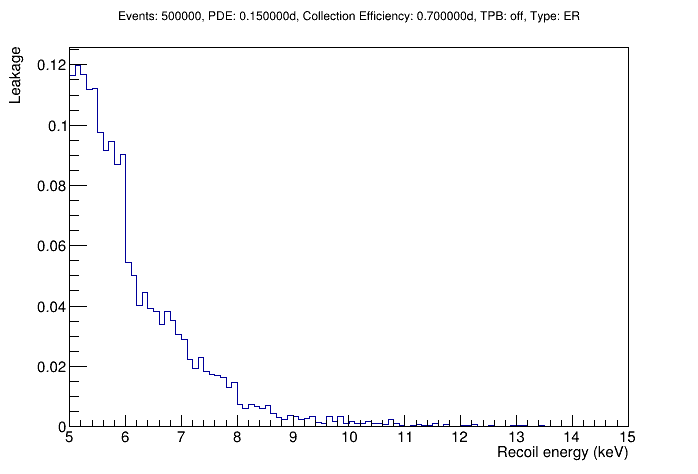
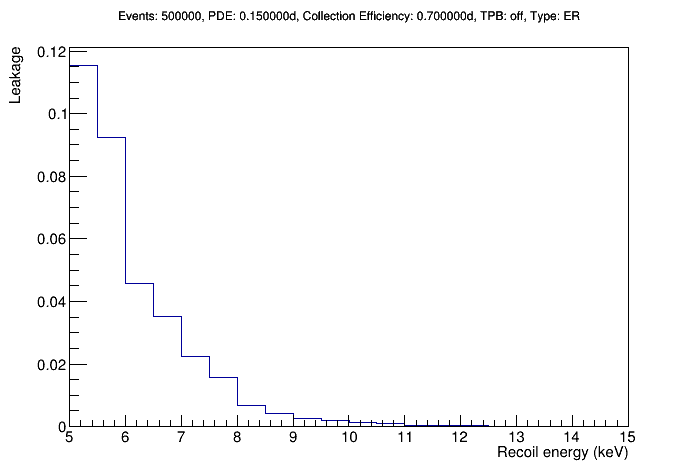
added line for 50% NR to graph 3; calculated fraction of evts with PSD==0|1

diff --git a/ReadOutput.c b/ReadOutput.c
@@ -6,9 +6,12 @@
 //Default graph type is scatter plot. Set heat_map==1 to make a heat map.
 //If inputting only NR, you must pass "" to ER.
 
-//Creates a graph of true PSD vs recorded PSD, detected photons vs energy, recorded PSD vs energy, a histogram of residual, and leakage vs energy.
+//Creates a graph of true PSD vs recorded PSD, detected photons vs energy, recorded PSD vs energy, a histogram of residual, and leakage vs energy. Calculates the
+//	fraction of events that have a PSD of zero or 1.
 
 #include "MakeList.c"
+#include "SingletToTripletYALE.c"
+#include "GetFloatAsString.c"
 
 void ReadOutput(TString ER="", TString NR="", long total_evts=0, int heat_map=0){
 
@@ -24,6 +27,7 @@ void ReadOutput(TString ER="", TString NR="", long total_evts=0, int heat_map=0)
     cout << "If the data file is a combination of multiple simulations, you must set total_evts." << endl;
     exit(EXIT_FAILURE);}
 
+  //Step 1: Read in the data files
   //Define the data variables
   Double_t tru_psd1, rec_psd1, residual1, erecoil1, leak_energy1;
   Int_t n_coll_p1;
@@ -40,7 +44,7 @@ void ReadOutput(TString ER="", TString NR="", long total_evts=0, int heat_map=0)
   Int_t tpb;
   TString evt_type;
 
-  //Step 1: read in the ER data file
+  //read in the ER data file
   TTree *SiPMmc1;
   TTree *SiPMmc2;
   if (ER != ""){
@@ -138,8 +142,9 @@ void ReadOutput(TString ER="", TString NR="", long total_evts=0, int heat_map=0)
   //Graph4: histogram of residual
   TH1D *hRes1 = new TH1D("hRes1","",100, 0, 1);
   //Graph5: leakage vs energy
-  TH1D *hLeak = new TH1D("hLeak","",100,energy_min,energy_max);
-  TH1D *hEnergy = new TH1D("hEnergy","",100,energy_min,energy_max);
+  double numbins = (energy_max-energy_min)*2.0;
+  TH1D *hLeak = new TH1D("hLeak","",numbins,energy_min,energy_max);
+  TH1D *hEnergy = new TH1D("hEnergy","",numbins,energy_min,energy_max);
 
   TH2D *hPSD2;
   TH2D *hPhotons2;
@@ -152,6 +157,8 @@ void ReadOutput(TString ER="", TString NR="", long total_evts=0, int heat_map=0)
     hRes2 = new TH1D("hRes2","",100, 0, 1);
   }
 
+  long BadPsdER = 0;
+  long BadPsdNR = 0;
 
   //loop through all of the events and add them to the graphs
   for (int i=0; i<total_evts; i++){
@@ -163,6 +170,7 @@ void ReadOutput(TString ER="", TString NR="", long total_evts=0, int heat_map=0)
       hRes1->Fill(residual1);
       hLeak->Fill(leak_energy1);
       hEnergy->Fill(erecoil1);
+      if (rec_psd1==0 | rec_psd1==1) BadPsdER += 1;
     }
     if (numFiles==2){
       SiPMmc2->GetEntry(i);
@@ -170,6 +178,7 @@ void ReadOutput(TString ER="", TString NR="", long total_evts=0, int heat_map=0)
       hPhotons2->Fill(erecoil2,n_coll_p2);
       hPSDenergy2->Fill(erecoil2,rec_psd2);
       hRes2->Fill(residual2);
+      if (rec_psd2==0 | rec_psd2==1) BadPsdNR += 1;
     }
     else if (ER == ""){ //NR != ""
       SiPMmc2->GetEntry(i);
@@ -177,6 +186,7 @@ void ReadOutput(TString ER="", TString NR="", long total_evts=0, int heat_map=0)
       hPhotons1->Fill(erecoil2,n_coll_p2);
       hPSDenergy1->Fill(erecoil2,rec_psd2);
       hRes1->Fill(residual2);
+      if (rec_psd2==0 | rec_psd2==1) BadPsdNR += 1;
     }
   }
 
@@ -213,6 +223,7 @@ void ReadOutput(TString ER="", TString NR="", long total_evts=0, int heat_map=0)
   }
   //add a y=x line
   TF1 *line1 = new TF1("line","x",-0.02,1.02);
+  line1->SetLineColor(kBlue);
   line1->Draw("same");
 
   //Graph2
@@ -236,24 +247,43 @@ void ReadOutput(TString ER="", TString NR="", long total_evts=0, int heat_map=0)
   hPSDenergy1->GetXaxis()->SetTitle("Recoil energy (keV)");
   hPSDenergy1->GetYaxis()->SetTitle("Recorded PSD");
   if (ER != "") hPSDenergy1->SetMarkerColor(kRed);
+  //if (numFiles==1)
   if (numFiles==1){
     hPSDenergy1->SetTitle("Events: "+num+", PDE: "+name_pde+", Collection Efficiency: "+name_coll_eff+", TPB: "+OnOff+", Type: "+evt_type+"R");
     if (heat_map==1){
-      hPSDenergy1->Draw("COLZ");}
-    else hPSDenergy1->Draw();}
+      hPSDenergy1->Draw("COLZ");
+    }
+    else hPSDenergy1->Draw();
+  }
+  //add a SingletToTripletYale line; it's stepped because that's how I implemented the leakage cut.
+  double energyLine[2*size];
+  double nuclearLine[2*size];
+  for (int i=0;i<size;i++){
+    energyLine[2*i] = energy[i]-0.5;
+    energyLine[2*i + 1] = energy[i]+0.5;
+    nuclearLine[2*i] = nuclear[i];
+    nuclearLine[2*i + 1] = nuclear[i];
+  }
+  TGraph *line3 = new TGraph(2*size, energyLine, nuclearLine);
+  line3->SetLineColor(kBlue);
+  line3->SetLineWidth(3);
+  line3->Draw("same");
+  //if (numFiles==2)
   TLegend *leg3;
   if (numFiles==2){
     hPSDenergy1->SetTitle("Events: "+num+", PDE: "+name_pde+", Collection Efficiency: "+name_coll_eff+", TPB: "+OnOff);
     if (heat_map==1){
       gStyle->SetPalette(kSolar);
-      hPSDenergy1->Draw("COLZ");}
+      hPSDenergy1->Draw("COLZ");
+    }
     else hPSDenergy1->Draw();
 //why does it not look transparent??
     hPSDenergy2->SetMarkerColorAlpha(kBlack, 0.5);
     hPSDenergy2->Draw("same");
-    leg3 = new TLegend(.12,.28,.26,.11);
+    leg3 = new TLegend(.88,.35,.70,.11);
     leg3->AddEntry(hPSD1, "ER", "F");
     leg3->AddEntry(hPSD2, "NR", "F");
+    leg3->AddEntry(line3, "50% NR", "L");
     leg3->Draw("same");
   }
 
@@ -290,6 +320,25 @@ void ReadOutput(TString ER="", TString NR="", long total_evts=0, int heat_map=0)
     hLeakEnergy->Draw();
   }
 
+  //Fraction of events with PSD zero or 1
+  TCanvas *c6 = new TCanvas("c6", "c6");
+  double fracBadER = double(BadPsdER)/double(total_evts);
+  TString name_fracBadER;
+  double fracBadNR = double(BadPsdNR)/double(total_evts);
+  TString name_fracBadNR;
+  if (ER != ""){
+    name_fracBadER = GetFloatAsString(fracBadER);
+    cout << "The fraction of ER events with PSD zero or one is " << fracBadER << endl;
+//why isn't this showing up?
+    TLatex text1(0.25, 0.25, "The fraction of ER events with PSD zero or one is "+name_fracBadER);
+    text1.Draw();
+  }
+  if (NR != ""){
+    name_fracBadNR = GetFloatAsString(fracBadNR);
+    cout << "The fraction of NR events with PSD zero or one is " << fracBadNR << endl;
+    TLatex text2(0.25, 0.25, "The fraction of NR events with PSD zero or one is "+name_fracBadNR);
+    text2.Draw();
+  }
 
   //Step 4: Save stuff
   gSystem->Exec("mkdir Img/"+directory);
@@ -297,6 +346,8 @@ void ReadOutput(TString ER="", TString NR="", long total_evts=0, int heat_map=0)
     c2->SaveAs("Img/"+directory+"/"+evt_type+"R__PhotonsVsEnergy.png");
     c4->SaveAs("Img/"+directory+"/"+evt_type+"R__residual.png");
     if (evt_type=='E') c5->SaveAs("Img/"+directory+"/"+evt_type+"R__LeakageVsEnergy.png");
+    if (evt_type=='E') c6->SaveAs("Img/"+directory+"/"+evt_type+"R__fracBad"+name_fracBadER+".png");
+    else if (evt_type=='N') c6->SaveAs("Img/"+directory+"/"+evt_type+"R__fracBad"+name_fracBadNR+".png");
     //add 'heatMap' to the file name if the graph is a heat map
     if (heat_map==0){
       c1->SaveAs("Img/"+directory+"/"+evt_type+"R__TruePSDvsRecPSD.png");
@@ -313,6 +364,7 @@ void ReadOutput(TString ER="", TString NR="", long total_evts=0, int heat_map=0)
     c3->SaveAs("Img/"+directory+"/ER&NR__RecPSDvsEnergy.png");
     c4->SaveAs("Img/"+directory+"/ER&NR__residual.png");
     c5->SaveAs("Img/"+directory+"/"+evt_type+"R__LeakageVsEnergy.png");
+    c6->SaveAs("Img/"+directory+"/frazBadER"+name_fracBadER+"NR"+name_fracBadNR+".png");
     //add 'heatMap' to the file name if the graph is a heat map
     if (heat_map==0){
       c1->SaveAs("Img/"+directory+"/ER&NR__TruePSDvsRecPSD.png");

diff --git a/SingletToTripletYALE.c b/SingletToTripletYALE.c
@@ -1,14 +1,14 @@
-  const int size = 35;
-  double energy[size] = {5.5,6.5,7.5,8.5,9.5,10.5,11.5,12.5,13.5,14.5,15.5,16.5,17.5,18.5,19.5,20.5,21.5,22.5,23.5,24.5,25.5,26.5,27.5,28.5,29.5,30.5,31.5,32.5,33.5,34.5,35.5, 40.5, 45.5, 50.5, 55.5};
-  double energyR[size] = {.5,.5,.5,.5,.5,.5,.5,.5,.5,.5,.5,.5,.5,.5,.5,.5,.5,.5,.5,.5,.5,.5,.5,.5,.5,.5,.5,.5,.5,.5,.5,.5,.5,.5,.5};
+const int size = 35;
+double energy[size] = {5.5,6.5,7.5,8.5,9.5,10.5,11.5,12.5,13.5,14.5,15.5,16.5,17.5,18.5,19.5,20.5,21.5,22.5,23.5,24.5,25.5,26.5,27.5,28.5,29.5,30.5,31.5,32.5,33.5,34.5,35.5, 40.5, 45.5, 50.5, 55.5};
+double energyR[size] = {.5,.5,.5,.5,.5,.5,.5,.5,.5,.5,.5,.5,.5,.5,.5,.5,.5,.5,.5,.5,.5,.5,.5,.5,.5,.5,.5,.5,.5,.5,.5,.5,.5,.5,.5};
 
-  double nuclear[size] = {0.566, 0.595, 0.607, 0.625, 0.638, 0.640, 0.649, 0.663, 0.658, 0.675, 0.683, 0.678, 0.685, 0.682, 0.684, 0.690, 0.695, 0.699, 0.690, 0.688, 0.695, 0.696, 0.696, 0.701, 0.708, 0.701, 0.689, 0.700, 0.700, 0.700, 0.700, 0.700, 0.700, 0.700, 0.700};
+double nuclear[size] = {0.566, 0.595, 0.607, 0.625, 0.638, 0.640, 0.649, 0.663, 0.658, 0.675, 0.683, 0.678, 0.685, 0.682, 0.684, 0.690, 0.695, 0.699, 0.690, 0.688, 0.695, 0.696, 0.696, 0.701, 0.708, 0.701, 0.689, 0.700, 0.700, 0.700, 0.700, 0.700, 0.700, 0.700, 0.700};
 
-  double nuclearR[size] ={.018,.018,.019,.019,.020,.020,.020,.020,.020,.020,.021,.021,.021,.021,.021,.021,.021,.021,.021,.021,.021,.021,.021,.021,.021,.021,.021, 0.021, 0.021, 0.021, 0.021, 0.021, 0.021, 0.021, 0.021};
+double nuclearR[size] ={.018,.018,.019,.019,.020,.020,.020,.020,.020,.020,.021,.021,.021,.021,.021,.021,.021,.021,.021,.021,.021,.021,.021,.021,.021,.021,.021, 0.021, 0.021, 0.021, 0.021, 0.021, 0.021, 0.021, 0.021};
 
-  double electron[size] = {0.391, 0.376, 0.361, 0.349, 0.339, 0.334, 0.328, 0.322, 0.319, 0.314, 0.311, 0.309, 0.304, 0.302, 0.299, 0.297, 0.295, 0.292, 0.290, 0.288, 0.289, 0.288, 0.285, 0.284, 0.283, 0.281, 0.282, 0.282, 0.282, 0.282, 0.282, 0.282, 0.282, 0.282, 0.282};
+double electron[size] = {0.391, 0.376, 0.361, 0.349, 0.339, 0.334, 0.328, 0.322, 0.319, 0.314, 0.311, 0.309, 0.304, 0.302, 0.299, 0.297, 0.295, 0.292, 0.290, 0.288, 0.289, 0.288, 0.285, 0.284, 0.283, 0.281, 0.282, 0.282, 0.282, 0.282, 0.282, 0.282, 0.282, 0.282, 0.282};
 
-  double electronR[size] = {.012,.011,.011,.011,.010,.010,.010,.010,.010,.009,.009,.009,.009,.009,.009,.009,.009,.009,.009,.009,.009,.009,.009,.009,.009,.009,.009,.009,.009,.009,.009,.009,.009,.009,.009};
+double electronR[size] = {.012,.011,.011,.011,.010,.010,.010,.010,.010,.009,.009,.009,.009,.009,.009,.009,.009,.009,.009,.009,.009,.009,.009,.009,.009,.009,.009,.009,.009,.009,.009,.009,.009,.009,.009};
 
 
 TGraphErrors* SingletToTripletYALE(TString interaction)
